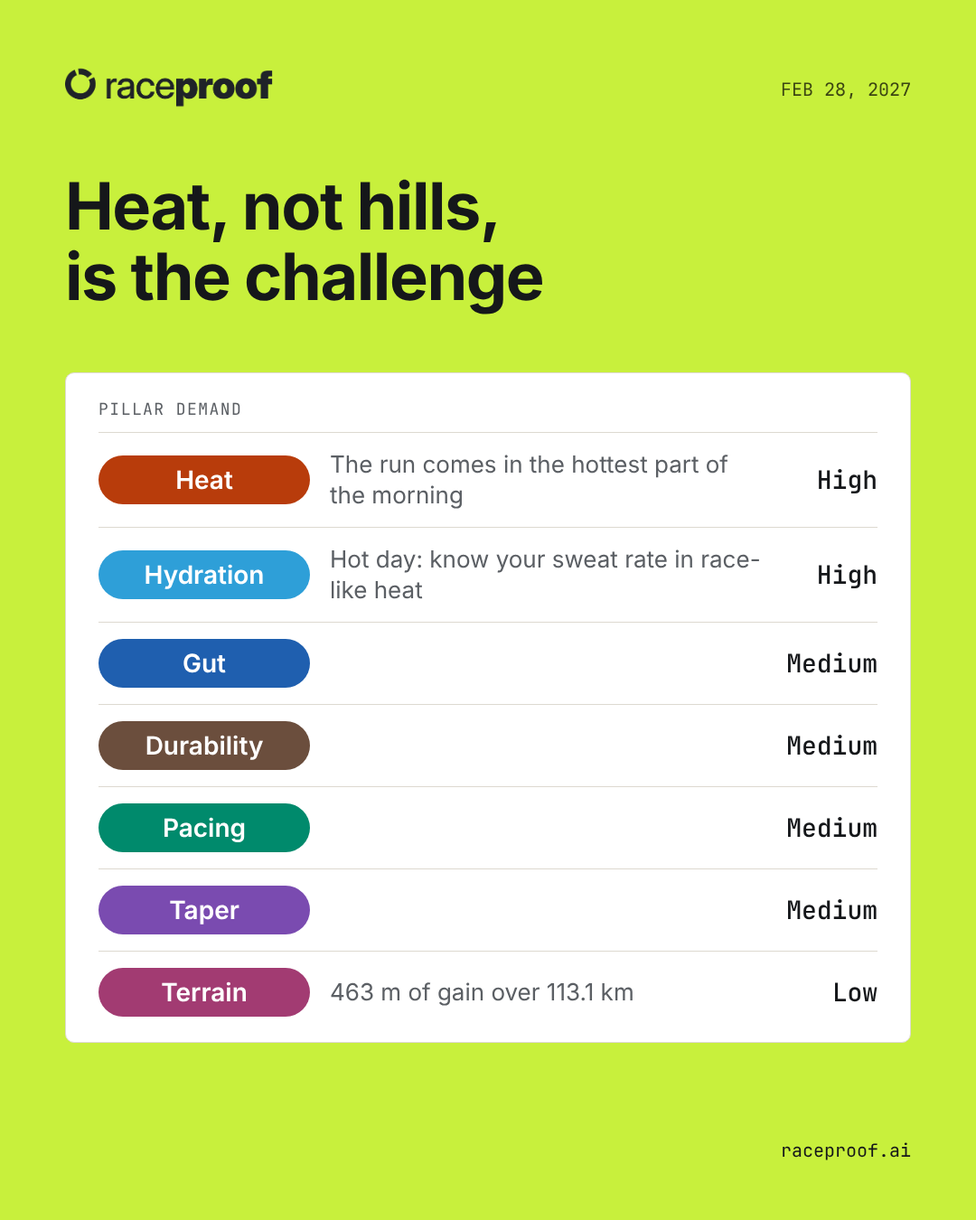
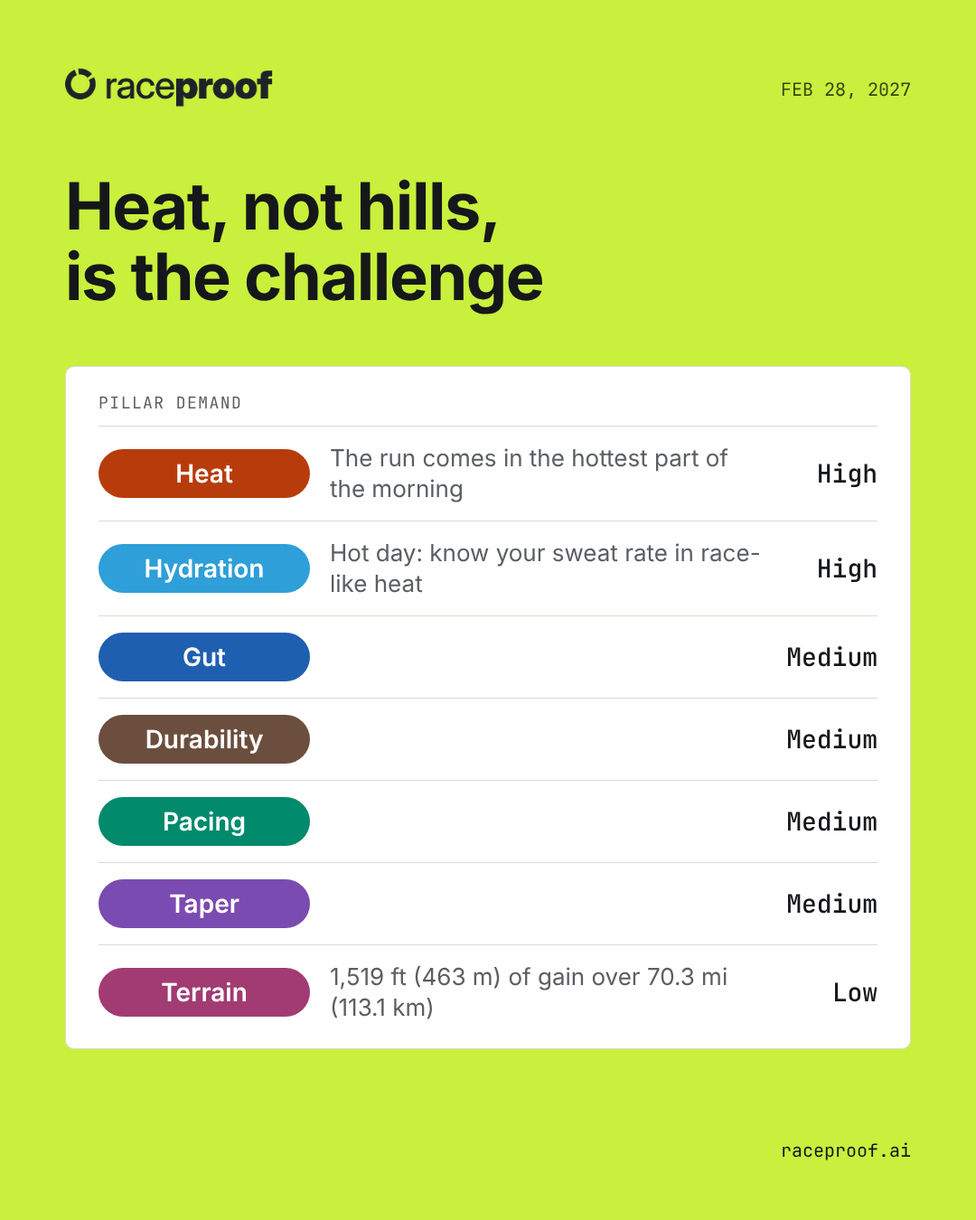
Panama carousel: imperial first with metric in parentheses, caption leads with race, date and heat, timeline as lines, no Spanish line or open-water-alone line
Claude-Session: https://claude.ai/code/session_01HnAGBKS3TMRPuz6YDVU3Ja

diff --git a/posts/2026-10-26/fri-race-ironman-70-3-panama-2.html b/posts/2026-10-26/fri-race-ironman-70-3-panama-2.html
@@ -10,14 +10,14 @@
 <div style="margin-top:64px"><h2 style="margin:0;font-size:72px;line-height:78px;font-weight:800;letter-spacing:-0.02em">The course in numbers</h2></div>
 <div style="margin-top:auto;display:flex;flex-direction:column;gap:26px">
 <div style="display:grid;grid-template-columns:1fr 1fr;column-gap:48px">
-<div style="display:flex;flex-direction:column;gap:6px;padding:20px 0;border-top:1px solid #A6C72E"><span class="mono" style="font-size:18px;letter-spacing:0.08em;color:#3B4512">DISTANCE</span><span class="mono" style="font-size:44px;line-height:50px;font-weight:600;letter-spacing:-0.02em">113.1 km</span><span style="font-size:22px;color:#3B4512">70.3 mi</span></div><div style="display:flex;flex-direction:column;gap:6px;padding:20px 0;border-top:1px solid #A6C72E"><span class="mono" style="font-size:18px;letter-spacing:0.08em;color:#3B4512">TYPICAL HIGH</span><span class="mono" style="font-size:44px;line-height:50px;font-weight:600;letter-spacing:-0.02em">32.0°C</span></div>
-<div style="display:flex;flex-direction:column;gap:6px;padding:20px 0;border-top:1px solid #A6C72E"><span class="mono" style="font-size:18px;letter-spacing:0.08em;color:#3B4512">GAIN, APPROX.</span><span class="mono" style="font-size:44px;line-height:50px;font-weight:600;letter-spacing:-0.02em">463 m</span></div><div style="display:flex;flex-direction:column;gap:6px;padding:20px 0;border-top:1px solid #A6C72E"><span class="mono" style="font-size:18px;letter-spacing:0.08em;color:#3B4512">WATER</span><span class="mono" style="font-size:44px;line-height:50px;font-weight:600;letter-spacing:-0.02em">26°C</span></div>
-<div style="display:flex;flex-direction:column;gap:6px;padding:20px 0;border-top:1px solid #A6C72E"><span class="mono" style="font-size:18px;letter-spacing:0.08em;color:#3B4512">LOSS, APPROX.</span><span class="mono" style="font-size:44px;line-height:50px;font-weight:600;letter-spacing:-0.02em">457 m</span></div><div style="border-top:1px solid #A6C72E"></div>
+<div style="display:flex;flex-direction:column;gap:6px;padding:20px 0;border-top:1px solid #A6C72E"><span class="mono" style="font-size:18px;letter-spacing:0.08em;color:#3B4512">DISTANCE</span><span class="mono" style="font-size:44px;line-height:50px;font-weight:600;letter-spacing:-0.02em">70.3 mi</span><span style="font-size:22px;color:#3B4512">113.1 km</span></div><div style="display:flex;flex-direction:column;gap:6px;padding:20px 0;border-top:1px solid #A6C72E"><span class="mono" style="font-size:18px;letter-spacing:0.08em;color:#3B4512">TYPICAL HIGH</span><span class="mono" style="font-size:44px;line-height:50px;font-weight:600;letter-spacing:-0.02em">90°F</span><span style="font-size:22px;color:#3B4512">32°C</span></div>
+<div style="display:flex;flex-direction:column;gap:6px;padding:20px 0;border-top:1px solid #A6C72E"><span class="mono" style="font-size:18px;letter-spacing:0.08em;color:#3B4512">GAIN, APPROX.</span><span class="mono" style="font-size:44px;line-height:50px;font-weight:600;letter-spacing:-0.02em">1,519 ft</span><span style="font-size:22px;color:#3B4512">463 m</span></div><div style="display:flex;flex-direction:column;gap:6px;padding:20px 0;border-top:1px solid #A6C72E"><span class="mono" style="font-size:18px;letter-spacing:0.08em;color:#3B4512">WATER</span><span class="mono" style="font-size:44px;line-height:50px;font-weight:600;letter-spacing:-0.02em">78°F</span><span style="font-size:22px;color:#3B4512">26°C</span></div>
+<div style="display:flex;flex-direction:column;gap:6px;padding:20px 0;border-top:1px solid #A6C72E"><span class="mono" style="font-size:18px;letter-spacing:0.08em;color:#3B4512">LOSS, APPROX.</span><span class="mono" style="font-size:44px;line-height:50px;font-weight:600;letter-spacing:-0.02em">1,499 ft</span><span style="font-size:22px;color:#3B4512">457 m</span></div><div style="border-top:1px solid #A6C72E"></div>
 </div>
 <div style="background:#FFFFFF;color:#15171A;border:1px solid #DDD9D0;border-radius:10px;padding:26px 32px;display:flex;flex-direction:column;gap:12px">
-<div style="display:flex;justify-content:space-between"><span class="mono" style="font-size:18px;letter-spacing:0.08em;color:#5B5F64">BIKE · 90.1 KM</span><span style="font-size:22px;color:#5B5F64">Three flat loops with short ramps</span></div>
+<div style="display:flex;justify-content:space-between"><span class="mono" style="font-size:18px;letter-spacing:0.08em;color:#5B5F64">BIKE · 56 MI (90.1 KM)</span><span style="font-size:22px;color:#5B5F64">Three flat loops with short ramps</span></div>
 <svg width="870" height="70" viewBox="0 0 870 70" style="display:block"><path d="M0.0,54.2 L1.7,52.5 L3.5,49.0 L5.2,47.2 L7.0,47.2 L8.7,47.2 L10.4,47.2 L12.2,49.0 L13.9,49.0 L15.7,49.0 L17.5,47.2 L19.2,47.2 L21.0,50.8 L22.7,52.5 L24.4,56.0 L26.2,54.2 L27.9,52.5 L29.6,47.2 L31.4,47.2 L33.1,54.2 L34.9,56.0 L36.6,54.2 L38.3,54.2 L40.1,52.5 L41.8,50.8 L43.5,49.0 L45.3,49.0 L47.1,49.0 L48.9,49.0 L50.6,49.0 L52.3,49.0 L54.1,49.0 L55.8,49.0 L57.5,49.0 L59.3,49.0 L61.0,49.0 L62.8,49.0 L64.5,50.8 L66.2,54.2 L68.0,56.0 L69.7,56.0 L71.5,56.0 L73.2,56.0 L74.9,56.0 L76.7,56.0 L78.5,56.0 L80.2,56.0 L82.0,56.0 L83.7,56.0 L85.5,54.2 L87.2,54.2 L88.9,54.2 L90.7,56.0 L92.4,56.0 L94.1,56.0 L95.9,54.2 L97.6,50.8 L99.4,43.8 L101.1,36.8 L102.8,31.5 L104.6,38.5 L106.3,45.5 L108.0,40.2 L109.9,42.0 L111.6,49.0 L113.4,61.2 L115.1,52.5 L116.8,45.5 L118.6,42.0 L120.3,36.8 L122.1,36.8 L123.8,40.2 L125.5,43.8 L127.3,45.5 L129.0,49.0 L130.7,50.8 L132.5,54.2 L134.2,54.2 L136.0,49.0 L137.7,45.5 L139.4,42.0 L141.3,43.8 L143.0,47.2 L144.7,52.5 L146.5,52.5 L148.2,50.8 L150.0,50.8 L151.7,50.8 L153.4,50.8 L155.2,52.5 L156.9,54.2 L158.6,56.0 L160.4,56.0 L162.1,54.2 L163.9,50.8 L165.6,50.8 L167.3,49.0 L169.1,49.0 L170.8,56.0 L172.6,54.2 L174.4,52.5 L176.1,50.8 L177.9,47.2 L179.6,49.0 L181.3,43.8 L183.1,43.8 L184.8,47.2 L186.6,50.8 L188.3,52.5 L190.0,50.8 L191.8,49.0 L193.5,47.2 L195.2,43.8 L197.0,40.2 L198.7,36.8 L200.5,35.0 L202.3,45.5 L204.0,50.8 L205.8,52.5 L207.5,56.0 L209.2,54.2 L211.0,43.8 L212.7,36.8 L214.5,43.8 L216.2,42.0 L217.9,33.2 L219.7,36.8 L221.4,43.8 L223.1,49.0 L224.9,50.8 L226.6,54.2 L228.4,54.2 L230.1,56.0 L231.8,56.0 L233.7,56.0 L235.4,54.2 L237.1,54.2 L238.9,54.2 L240.6,56.0 L242.4,56.0 L244.1,56.0 L245.8,56.0 L247.6,56.0 L249.3,56.0 L251.1,56.0 L252.8,54.2 L254.5,54.2 L256.3,52.5 L258.0,50.8 L259.7,49.0 L261.5,49.0 L263.2,49.0 L265.1,49.0 L266.8,49.0 L268.5,47.2 L270.3,47.2 L272.0,47.2 L273.7,47.2 L275.5,47.2 L277.2,47.2 L279.0,47.2 L280.7,47.2 L282.4,49.0 L284.2,52.5 L285.9,52.5 L287.7,54.2 L289.4,54.2 L291.1,54.2 L292.9,54.2 L294.6,54.2 L296.4,54.2 L298.2,54.2 L299.9,52.5 L301.7,49.0 L303.4,45.5 L305.1,45.5 L306.9,50.8 L308.6,54.2 L310.3,54.2 L312.1,50.8 L313.8,49.0 L315.6,49.0 L317.3,49.0 L319.0,49.0 L320.8,49.0 L322.5,49.0 L324.2,49.0 L326.0,49.0 L327.8,49.0 L329.6,49.0 L331.3,49.0 L333.0,49.0 L334.8,49.0 L336.5,49.0 L338.2,49.0 L340.0,52.5 L341.7,54.2 L343.5,56.0 L345.2,56.0 L346.9,56.0 L348.7,56.0 L350.4,56.0 L352.2,56.0 L353.9,56.0 L355.6,56.0 L357.5,56.0 L359.2,56.0 L360.9,56.0 L362.7,56.0 L364.4,56.0 L366.2,54.2 L367.9,54.2 L369.6,56.0 L371.4,56.0 L373.1,49.0 L374.8,40.2 L376.6,31.5 L378.3,40.2 L380.1,47.2 L381.8,40.2 L383.5,42.0 L385.3,49.0 L387.0,61.2 L388.8,56.0 L390.6,52.5 L392.3,47.2 L394.1,43.8 L395.8,38.5 L397.5,42.0 L399.3,45.5 L401.0,47.2 L402.7,49.0 L404.5,50.8 L406.2,52.5 L408.0,56.0 L409.7,49.0 L411.4,43.8 L413.2,42.0 L414.9,45.5 L416.7,49.0 L418.4,49.0 L420.2,50.8 L422.0,50.8 L423.7,52.5 L425.4,52.5 L427.2,52.5 L428.9,50.8 L430.7,52.5 L432.4,54.2 L434.1,56.0 L435.9,54.2 L437.6,50.8 L439.3,47.2 L441.1,50.8 L442.8,54.2 L444.6,56.0 L446.3,54.2 L448.0,52.5 L449.8,52.5 L451.6,50.8 L453.3,50.8 L455.1,49.0 L456.8,47.2 L458.6,43.8 L460.3,47.2 L462.0,50.8 L463.8,54.2 L465.5,50.8 L467.3,47.2 L469.0,43.8 L470.7,40.2 L472.5,36.8 L474.2,38.5 L475.9,43.8 L477.7,49.0 L479.4,52.5 L481.2,56.0 L483.0,56.0 L484.7,49.0 L486.5,40.2 L488.2,40.2 L489.9,42.0 L491.7,35.0 L493.4,35.0 L495.2,43.8 L496.9,50.8 L498.6,54.2 L500.4,54.2 L502.1,56.0 L503.8,56.0 L505.6,56.0 L507.3,56.0 L509.1,56.0 L510.8,56.0 L512.5,56.0 L514.4,54.2 L516.1,54.2 L517.8,54.2 L519.6,56.0 L521.3,56.0 L523.1,56.0 L524.8,56.0 L526.5,56.0 L528.3,56.0 L530.0,54.2 L531.8,54.2 L533.5,52.5 L535.2,49.0 L537.0,49.0 L538.7,47.2 L540.4,47.2 L542.2,47.2 L544.0,47.2 L545.8,47.2 L547.5,47.2 L549.2,47.2 L551.0,47.2 L552.7,47.2 L554.4,47.2 L556.2,49.0 L557.9,50.8 L559.7,54.2 L561.4,54.2 L563.1,54.2 L564.9,54.2 L566.6,54.2 L568.3,54.2 L570.1,54.2 L571.8,54.2 L573.6,54.2 L575.4,50.8 L577.1,45.5 L578.9,47.2 L580.6,50.8 L582.3,52.5 L584.1,54.2 L585.8,52.5 L587.6,50.8 L589.3,49.0 L591.0,49.0 L592.8,49.0 L594.5,49.0 L596.3,49.0 L598.0,49.0 L599.7,49.0 L601.5,49.0 L603.2,49.0 L604.9,49.0 L606.8,49.0 L608.5,49.0 L610.3,49.0 L612.0,50.8 L613.7,50.8 L615.5,52.5 L617.2,56.0 L618.9,56.0 L620.7,56.0 L622.4,56.0 L624.2,56.0 L625.9,56.0 L627.6,56.0 L629.4,56.0 L631.1,56.0 L632.9,56.0 L634.6,56.0 L636.3,54.2 L638.2,54.2 L639.9,56.0 L641.6,56.0 L643.4,54.2 L645.1,54.2 L646.9,52.5 L648.6,47.2 L650.3,40.2 L652.1,36.8 L653.8,45.5 L655.5,43.8 L657.3,42.0 L659.0,49.0 L660.8,57.8 L662.5,59.5 L664.2,56.0 L666.0,50.8 L667.7,42.0 L669.5,36.8 L671.3,38.5 L673.0,42.0 L674.8,47.2 L676.5,49.0 L678.2,52.5 L680.0,54.2 L681.7,54.2 L683.4,49.0 L685.2,45.5 L686.9,45.5 L688.7,47.2 L690.4,49.0 L692.1,50.8 L693.9,50.8 L695.6,52.5 L697.4,52.5 L699.2,50.8 L700.9,50.8 L702.7,49.0 L704.4,47.2 L706.1,49.0 L707.9,52.5 L709.6,56.0 L711.4,54.2 L713.1,52.5 L714.8,50.8 L716.6,50.8 L718.3,52.5 L720.0,52.5 L721.8,52.5 L723.5,52.5 L725.3,50.8 L727.0,49.0 L728.7,45.5 L730.6,42.0 L732.3,43.8 L734.0,47.2 L735.8,49.0 L737.5,50.8 L739.3,50.8 L741.0,47.2 L742.7,43.8 L744.5,40.2 L746.2,38.5 L747.9,35.0 L749.7,38.5 L751.4,43.8 L753.2,49.0 L754.9,54.2 L756.6,57.8 L758.4,43.8 L760.1,38.5 L762.0,40.2 L763.7,43.8 L765.4,38.5 L767.2,35.0 L768.9,38.5 L770.6,45.5 L772.4,52.5 L774.1,52.5 L775.9,54.2 L777.6,54.2 L779.3,54.2 L781.1,54.2 L782.8,54.2 L784.5,54.2 L786.3,54.2 L788.0,54.2 L789.8,56.0 L791.5,56.0 L793.3,56.0 L795.1,56.0 L796.8,56.0 L798.5,56.0 L800.3,56.0 L802.0,56.0 L803.8,54.2 L805.5,50.8 L807.2,50.8 L809.0,49.0 L810.7,49.0 L812.5,49.0 L814.2,47.2 L815.9,47.2 L817.7,47.2 L819.4,47.2 L821.1,47.2 L822.9,47.2 L824.7,47.2 L826.5,47.2 L828.2,47.2 L829.9,47.2 L831.7,49.0 L833.4,50.8 L835.1,54.2 L836.9,54.2 L838.6,54.2 L840.4,54.2 L842.1,49.0 L843.8,43.8 L845.6,42.0 L847.3,45.5 L849.0,47.2 L850.8,49.0 L852.5,47.2 L854.3,47.2 L856.1,47.2 L857.8,45.5 L859.6,45.5 L861.3,45.5 L863.0,45.5 L864.8,47.2 L866.5,49.0 L868.3,52.5 L870.0,54.2 L870,70 L0,70 Z" fill="#1F2328" opacity="0.12"/><path d="M0.0,54.2 L1.7,52.5 L3.5,49.0 L5.2,47.2 L7.0,47.2 L8.7,47.2 L10.4,47.2 L12.2,49.0 L13.9,49.0 L15.7,49.0 L17.5,47.2 L19.2,47.2 L21.0,50.8 L22.7,52.5 L24.4,56.0 L26.2,54.2 L27.9,52.5 L29.6,47.2 L31.4,47.2 L33.1,54.2 L34.9,56.0 L36.6,54.2 L38.3,54.2 L40.1,52.5 L41.8,50.8 L43.5,49.0 L45.3,49.0 L47.1,49.0 L48.9,49.0 L50.6,49.0 L52.3,49.0 L54.1,49.0 L55.8,49.0 L57.5,49.0 L59.3,49.0 L61.0,49.0 L62.8,49.0 L64.5,50.8 L66.2,54.2 L68.0,56.0 L69.7,56.0 L71.5,56.0 L73.2,56.0 L74.9,56.0 L76.7,56.0 L78.5,56.0 L80.2,56.0 L82.0,56.0 L83.7,56.0 L85.5,54.2 L87.2,54.2 L88.9,54.2 L90.7,56.0 L92.4,56.0 L94.1,56.0 L95.9,54.2 L97.6,50.8 L99.4,43.8 L101.1,36.8 L102.8,31.5 L104.6,38.5 L106.3,45.5 L108.0,40.2 L109.9,42.0 L111.6,49.0 L113.4,61.2 L115.1,52.5 L116.8,45.5 L118.6,42.0 L120.3,36.8 L122.1,36.8 L123.8,40.2 L125.5,43.8 L127.3,45.5 L129.0,49.0 L130.7,50.8 L132.5,54.2 L134.2,54.2 L136.0,49.0 L137.7,45.5 L139.4,42.0 L141.3,43.8 L143.0,47.2 L144.7,52.5 L146.5,52.5 L148.2,50.8 L150.0,50.8 L151.7,50.8 L153.4,50.8 L155.2,52.5 L156.9,54.2 L158.6,56.0 L160.4,56.0 L162.1,54.2 L163.9,50.8 L165.6,50.8 L167.3,49.0 L169.1,49.0 L170.8,56.0 L172.6,54.2 L174.4,52.5 L176.1,50.8 L177.9,47.2 L179.6,49.0 L181.3,43.8 L183.1,43.8 L184.8,47.2 L186.6,50.8 L188.3,52.5 L190.0,50.8 L191.8,49.0 L193.5,47.2 L195.2,43.8 L197.0,40.2 L198.7,36.8 L200.5,35.0 L202.3,45.5 L204.0,50.8 L205.8,52.5 L207.5,56.0 L209.2,54.2 L211.0,43.8 L212.7,36.8 L214.5,43.8 L216.2,42.0 L217.9,33.2 L219.7,36.8 L221.4,43.8 L223.1,49.0 L224.9,50.8 L226.6,54.2 L228.4,54.2 L230.1,56.0 L231.8,56.0 L233.7,56.0 L235.4,54.2 L237.1,54.2 L238.9,54.2 L240.6,56.0 L242.4,56.0 L244.1,56.0 L245.8,56.0 L247.6,56.0 L249.3,56.0 L251.1,56.0 L252.8,54.2 L254.5,54.2 L256.3,52.5 L258.0,50.8 L259.7,49.0 L261.5,49.0 L263.2,49.0 L265.1,49.0 L266.8,49.0 L268.5,47.2 L270.3,47.2 L272.0,47.2 L273.7,47.2 L275.5,47.2 L277.2,47.2 L279.0,47.2 L280.7,47.2 L282.4,49.0 L284.2,52.5 L285.9,52.5 L287.7,54.2 L289.4,54.2 L291.1,54.2 L292.9,54.2 L294.6,54.2 L296.4,54.2 L298.2,54.2 L299.9,52.5 L301.7,49.0 L303.4,45.5 L305.1,45.5 L306.9,50.8 L308.6,54.2 L310.3,54.2 L312.1,50.8 L313.8,49.0 L315.6,49.0 L317.3,49.0 L319.0,49.0 L320.8,49.0 L322.5,49.0 L324.2,49.0 L326.0,49.0 L327.8,49.0 L329.6,49.0 L331.3,49.0 L333.0,49.0 L334.8,49.0 L336.5,49.0 L338.2,49.0 L340.0,52.5 L341.7,54.2 L343.5,56.0 L345.2,56.0 L346.9,56.0 L348.7,56.0 L350.4,56.0 L352.2,56.0 L353.9,56.0 L355.6,56.0 L357.5,56.0 L359.2,56.0 L360.9,56.0 L362.7,56.0 L364.4,56.0 L366.2,54.2 L367.9,54.2 L369.6,56.0 L371.4,56.0 L373.1,49.0 L374.8,40.2 L376.6,31.5 L378.3,40.2 L380.1,47.2 L381.8,40.2 L383.5,42.0 L385.3,49.0 L387.0,61.2 L388.8,56.0 L390.6,52.5 L392.3,47.2 L394.1,43.8 L395.8,38.5 L397.5,42.0 L399.3,45.5 L401.0,47.2 L402.7,49.0 L404.5,50.8 L406.2,52.5 L408.0,56.0 L409.7,49.0 L411.4,43.8 L413.2,42.0 L414.9,45.5 L416.7,49.0 L418.4,49.0 L420.2,50.8 L422.0,50.8 L423.7,52.5 L425.4,52.5 L427.2,52.5 L428.9,50.8 L430.7,52.5 L432.4,54.2 L434.1,56.0 L435.9,54.2 L437.6,50.8 L439.3,47.2 L441.1,50.8 L442.8,54.2 L444.6,56.0 L446.3,54.2 L448.0,52.5 L449.8,52.5 L451.6,50.8 L453.3,50.8 L455.1,49.0 L456.8,47.2 L458.6,43.8 L460.3,47.2 L462.0,50.8 L463.8,54.2 L465.5,50.8 L467.3,47.2 L469.0,43.8 L470.7,40.2 L472.5,36.8 L474.2,38.5 L475.9,43.8 L477.7,49.0 L479.4,52.5 L481.2,56.0 L483.0,56.0 L484.7,49.0 L486.5,40.2 L488.2,40.2 L489.9,42.0 L491.7,35.0 L493.4,35.0 L495.2,43.8 L496.9,50.8 L498.6,54.2 L500.4,54.2 L502.1,56.0 L503.8,56.0 L505.6,56.0 L507.3,56.0 L509.1,56.0 L510.8,56.0 L512.5,56.0 L514.4,54.2 L516.1,54.2 L517.8,54.2 L519.6,56.0 L521.3,56.0 L523.1,56.0 L524.8,56.0 L526.5,56.0 L528.3,56.0 L530.0,54.2 L531.8,54.2 L533.5,52.5 L535.2,49.0 L537.0,49.0 L538.7,47.2 L540.4,47.2 L542.2,47.2 L544.0,47.2 L545.8,47.2 L547.5,47.2 L549.2,47.2 L551.0,47.2 L552.7,47.2 L554.4,47.2 L556.2,49.0 L557.9,50.8 L559.7,54.2 L561.4,54.2 L563.1,54.2 L564.9,54.2 L566.6,54.2 L568.3,54.2 L570.1,54.2 L571.8,54.2 L573.6,54.2 L575.4,50.8 L577.1,45.5 L578.9,47.2 L580.6,50.8 L582.3,52.5 L584.1,54.2 L585.8,52.5 L587.6,50.8 L589.3,49.0 L591.0,49.0 L592.8,49.0 L594.5,49.0 L596.3,49.0 L598.0,49.0 L599.7,49.0 L601.5,49.0 L603.2,49.0 L604.9,49.0 L606.8,49.0 L608.5,49.0 L610.3,49.0 L612.0,50.8 L613.7,50.8 L615.5,52.5 L617.2,56.0 L618.9,56.0 L620.7,56.0 L622.4,56.0 L624.2,56.0 L625.9,56.0 L627.6,56.0 L629.4,56.0 L631.1,56.0 L632.9,56.0 L634.6,56.0 L636.3,54.2 L638.2,54.2 L639.9,56.0 L641.6,56.0 L643.4,54.2 L645.1,54.2 L646.9,52.5 L648.6,47.2 L650.3,40.2 L652.1,36.8 L653.8,45.5 L655.5,43.8 L657.3,42.0 L659.0,49.0 L660.8,57.8 L662.5,59.5 L664.2,56.0 L666.0,50.8 L667.7,42.0 L669.5,36.8 L671.3,38.5 L673.0,42.0 L674.8,47.2 L676.5,49.0 L678.2,52.5 L680.0,54.2 L681.7,54.2 L683.4,49.0 L685.2,45.5 L686.9,45.5 L688.7,47.2 L690.4,49.0 L692.1,50.8 L693.9,50.8 L695.6,52.5 L697.4,52.5 L699.2,50.8 L700.9,50.8 L702.7,49.0 L704.4,47.2 L706.1,49.0 L707.9,52.5 L709.6,56.0 L711.4,54.2 L713.1,52.5 L714.8,50.8 L716.6,50.8 L718.3,52.5 L720.0,52.5 L721.8,52.5 L723.5,52.5 L725.3,50.8 L727.0,49.0 L728.7,45.5 L730.6,42.0 L732.3,43.8 L734.0,47.2 L735.8,49.0 L737.5,50.8 L739.3,50.8 L741.0,47.2 L742.7,43.8 L744.5,40.2 L746.2,38.5 L747.9,35.0 L749.7,38.5 L751.4,43.8 L753.2,49.0 L754.9,54.2 L756.6,57.8 L758.4,43.8 L760.1,38.5 L762.0,40.2 L763.7,43.8 L765.4,38.5 L767.2,35.0 L768.9,38.5 L770.6,45.5 L772.4,52.5 L774.1,52.5 L775.9,54.2 L777.6,54.2 L779.3,54.2 L781.1,54.2 L782.8,54.2 L784.5,54.2 L786.3,54.2 L788.0,54.2 L789.8,56.0 L791.5,56.0 L793.3,56.0 L795.1,56.0 L796.8,56.0 L798.5,56.0 L800.3,56.0 L802.0,56.0 L803.8,54.2 L805.5,50.8 L807.2,50.8 L809.0,49.0 L810.7,49.0 L812.5,49.0 L814.2,47.2 L815.9,47.2 L817.7,47.2 L819.4,47.2 L821.1,47.2 L822.9,47.2 L824.7,47.2 L826.5,47.2 L828.2,47.2 L829.9,47.2 L831.7,49.0 L833.4,50.8 L835.1,54.2 L836.9,54.2 L838.6,54.2 L840.4,54.2 L842.1,49.0 L843.8,43.8 L845.6,42.0 L847.3,45.5 L849.0,47.2 L850.8,49.0 L852.5,47.2 L854.3,47.2 L856.1,47.2 L857.8,45.5 L859.6,45.5 L861.3,45.5 L863.0,45.5 L864.8,47.2 L866.5,49.0 L868.3,52.5 L870.0,54.2" fill="none" stroke="#1F2328" stroke-width="3"/></svg>
-<div style="display:flex;justify-content:space-between;margin-top:8px"><span class="mono" style="font-size:18px;letter-spacing:0.08em;color:#5B5F64">RUN · 21.1 KM</span><span style="font-size:22px;color:#5B5F64">Three flat loops in Amador</span></div>
+<div style="display:flex;justify-content:space-between;margin-top:8px"><span class="mono" style="font-size:18px;letter-spacing:0.08em;color:#5B5F64">RUN · 13.1 MI (21.1 KM)</span><span style="font-size:22px;color:#5B5F64">Three flat loops in Amador</span></div>
 <svg width="870" height="70" viewBox="0 0 870 70" style="display:block"><path d="M0.0,56.0 L2.1,56.0 L4.5,56.0 L6.6,56.0 L8.7,56.0 L10.7,56.0 L13.2,56.0 L15.3,56.0 L17.3,57.8 L19.8,57.8 L21.9,57.8 L23.9,57.8 L26.0,57.8 L28.5,57.8 L30.5,57.8 L32.6,57.8 L35.0,57.8 L37.1,57.8 L39.2,57.8 L41.2,57.8 L43.7,57.8 L45.8,57.8 L47.8,57.8 L50.3,57.8 L52.4,57.8 L54.4,57.8 L56.5,57.8 L59.0,57.8 L61.0,57.8 L63.1,57.8 L65.6,57.8 L67.6,57.8 L69.7,57.8 L72.2,57.8 L74.2,57.8 L76.3,56.0 L78.3,56.0 L80.8,54.2 L82.9,54.2 L84.9,54.2 L87.4,54.2 L89.5,54.2 L91.5,54.2 L93.6,54.2 L96.1,54.2 L98.1,54.2 L100.2,54.2 L102.7,54.2 L104.7,54.2 L106.8,56.0 L108.9,56.0 L111.3,57.8 L113.4,57.8 L115.5,57.8 L117.9,57.8 L120.0,57.8 L122.0,57.8 L124.1,57.8 L126.6,57.8 L128.6,57.8 L130.7,57.8 L133.2,57.8 L135.2,57.8 L137.3,57.8 L139.4,57.8 L141.8,57.8 L143.9,57.8 L146.0,57.8 L148.4,57.8 L150.5,57.8 L152.6,57.8 L154.6,57.8 L157.1,57.8 L159.2,57.8 L161.2,57.8 L163.7,57.8 L165.8,57.8 L167.8,57.8 L169.9,57.8 L172.4,56.0 L174.4,56.0 L176.5,56.0 L178.9,56.0 L181.0,54.2 L183.1,54.2 L185.1,54.2 L187.6,54.2 L189.7,54.2 L191.7,52.5 L194.2,52.5 L196.3,52.5 L198.3,52.5 L200.8,50.8 L202.9,50.8 L204.9,49.0 L207.0,49.0 L209.5,47.2 L211.5,47.2 L213.6,47.2 L216.1,45.5 L218.1,45.5 L220.2,45.5 L222.2,47.2 L224.7,47.2 L226.8,47.2 L228.8,47.2 L231.3,47.2 L233.4,45.5 L235.4,45.5 L237.5,45.5 L240.0,47.2 L242.0,47.2 L244.1,47.2 L246.6,49.0 L248.6,49.0 L250.7,47.2 L252.8,47.2 L255.2,45.5 L257.3,45.5 L259.4,45.5 L261.8,45.5 L263.9,47.2 L265.9,47.2 L268.0,47.2 L270.5,47.2 L272.5,49.0 L274.6,49.0 L277.1,50.8 L279.1,50.8 L281.2,52.5 L283.3,52.5 L285.7,52.5 L287.8,54.2 L289.9,54.2 L292.3,54.2 L294.4,54.2 L296.5,54.2 L298.5,54.2 L301.0,54.2 L303.1,54.2 L305.1,56.0 L307.6,56.0 L309.7,56.0 L311.7,56.0 L314.2,56.0 L316.3,57.8 L318.3,57.8 L320.4,57.8 L322.8,57.8 L324.9,57.8 L327.0,57.8 L329.4,57.8 L331.5,57.8 L333.6,57.8 L335.6,57.8 L338.1,57.8 L340.2,57.8 L342.2,57.8 L344.7,57.8 L346.8,57.8 L348.8,57.8 L350.9,57.8 L353.4,57.8 L355.4,57.8 L357.5,57.8 L360.0,57.8 L362.0,57.8 L364.1,57.8 L366.1,57.8 L368.6,57.8 L370.7,57.8 L372.7,57.8 L375.2,56.0 L377.3,56.0 L379.3,54.2 L381.4,54.2 L383.9,54.2 L385.9,54.2 L388.0,54.2 L390.5,54.2 L392.5,54.2 L394.6,54.2 L396.7,54.2 L399.1,54.2 L401.2,54.2 L403.3,54.2 L405.7,56.0 L407.8,56.0 L409.8,57.8 L411.9,57.8 L414.4,57.8 L416.4,57.8 L418.5,57.8 L421.0,57.8 L423.0,57.8 L425.1,57.8 L427.2,57.8 L429.6,57.8 L431.7,57.8 L433.8,57.8 L436.2,57.8 L438.3,57.8 L440.4,57.8 L442.8,57.8 L444.9,57.8 L447.0,57.8 L449.0,57.8 L451.5,57.8 L453.6,57.8 L455.6,57.8 L458.1,57.8 L460.2,57.8 L462.2,57.8 L464.3,57.8 L466.7,57.8 L468.8,57.8 L470.9,56.0 L473.3,56.0 L475.4,56.0 L477.5,56.0 L479.5,54.2 L482.0,54.2 L484.1,54.2 L486.1,54.2 L488.6,54.2 L490.7,52.5 L492.7,52.5 L494.8,52.5 L497.3,50.8 L499.3,50.8 L501.4,49.0 L503.9,47.2 L505.9,47.2 L508.0,47.2 L510.0,47.2 L512.5,45.5 L514.6,45.5 L516.6,45.5 L519.1,47.2 L521.2,47.2 L523.2,49.0 L525.3,49.0 L527.8,49.0 L529.8,47.2 L531.9,47.2 L534.4,45.5 L536.4,45.5 L538.5,45.5 L540.6,47.2 L543.0,47.2 L545.1,49.0 L547.2,49.0 L549.6,47.2 L551.7,47.2 L553.7,47.2 L555.8,45.5 L558.3,45.5 L560.3,45.5 L562.4,47.2 L564.9,47.2 L566.9,47.2 L569.0,47.2 L571.5,49.0 L573.5,49.0 L575.6,50.8 L577.7,50.8 L580.1,52.5 L582.2,52.5 L584.3,52.5 L586.7,54.2 L588.8,54.2 L590.9,54.2 L592.9,54.2 L595.4,54.2 L597.5,54.2 L599.5,54.2 L602.0,54.2 L604.1,56.0 L606.1,56.0 L608.2,56.0 L610.6,56.0 L612.7,56.0 L614.8,57.8 L617.2,57.8 L619.3,57.8 L621.4,57.8 L623.4,57.8 L625.9,57.8 L628.0,57.8 L630.0,57.8 L632.5,57.8 L634.6,57.8 L636.6,57.8 L638.7,57.8 L641.2,57.8 L643.2,57.8 L645.3,57.8 L647.8,57.8 L649.8,57.8 L651.9,57.8 L653.9,57.8 L656.4,57.8 L658.5,57.8 L660.5,57.8 L663.0,57.8 L665.1,56.0 L667.1,56.0 L669.2,56.0 L671.7,56.0 L673.7,56.0 L675.8,54.2 L678.3,54.2 L680.3,54.2 L682.4,54.2 L684.9,54.2 L686.9,54.2 L689.0,54.2 L691.1,54.2 L693.5,54.2 L695.6,54.2 L697.6,54.2 L700.1,54.2 L702.2,54.2 L704.2,56.0 L706.3,56.0 L708.8,57.8 L710.8,57.8 L712.9,57.8 L715.4,57.8 L717.4,57.8 L719.5,57.8 L721.6,57.8 L724.0,57.8 L726.1,57.8 L728.2,57.8 L730.6,57.8 L732.7,57.8 L734.8,57.8 L736.8,57.8 L739.3,57.8 L741.4,57.8 L743.4,57.8 L745.9,57.8 L748.0,57.8 L750.0,57.8 L752.1,57.8 L754.5,57.8 L756.6,57.8 L758.7,56.0 L761.1,56.0 L763.2,56.0 L765.3,56.0 L767.3,56.0 L769.8,56.0 L771.9,56.0 L773.9,56.0 L776.4,56.0 L778.5,54.2 L780.5,54.2 L782.6,54.2 L785.1,54.2 L787.1,54.2 L789.2,52.5 L791.7,52.5 L793.7,52.5 L795.8,50.8 L797.8,50.8 L800.3,49.0 L802.4,47.2 L804.4,47.2 L806.9,47.2 L809.0,47.2 L811.0,45.5 L813.5,45.5 L815.6,45.5 L817.6,47.2 L819.7,47.2 L822.2,49.0 L824.2,49.0 L826.3,49.0 L828.8,47.2 L830.8,47.2 L832.9,45.5 L835.0,45.5 L837.4,45.5 L839.5,45.5 L841.5,47.2 L844.0,47.2 L846.1,47.2 L848.1,45.5 L850.2,43.8 L852.7,43.8 L854.7,43.8 L856.8,43.8 L859.3,43.8 L861.3,45.5 L863.4,45.5 L865.5,45.5 L867.9,45.5 L870.0,45.5 L870,70 L0,70 Z" fill="#1F2328" opacity="0.12"/><path d="M0.0,56.0 L2.1,56.0 L4.5,56.0 L6.6,56.0 L8.7,56.0 L10.7,56.0 L13.2,56.0 L15.3,56.0 L17.3,57.8 L19.8,57.8 L21.9,57.8 L23.9,57.8 L26.0,57.8 L28.5,57.8 L30.5,57.8 L32.6,57.8 L35.0,57.8 L37.1,57.8 L39.2,57.8 L41.2,57.8 L43.7,57.8 L45.8,57.8 L47.8,57.8 L50.3,57.8 L52.4,57.8 L54.4,57.8 L56.5,57.8 L59.0,57.8 L61.0,57.8 L63.1,57.8 L65.6,57.8 L67.6,57.8 L69.7,57.8 L72.2,57.8 L74.2,57.8 L76.3,56.0 L78.3,56.0 L80.8,54.2 L82.9,54.2 L84.9,54.2 L87.4,54.2 L89.5,54.2 L91.5,54.2 L93.6,54.2 L96.1,54.2 L98.1,54.2 L100.2,54.2 L102.7,54.2 L104.7,54.2 L106.8,56.0 L108.9,56.0 L111.3,57.8 L113.4,57.8 L115.5,57.8 L117.9,57.8 L120.0,57.8 L122.0,57.8 L124.1,57.8 L126.6,57.8 L128.6,57.8 L130.7,57.8 L133.2,57.8 L135.2,57.8 L137.3,57.8 L139.4,57.8 L141.8,57.8 L143.9,57.8 L146.0,57.8 L148.4,57.8 L150.5,57.8 L152.6,57.8 L154.6,57.8 L157.1,57.8 L159.2,57.8 L161.2,57.8 L163.7,57.8 L165.8,57.8 L167.8,57.8 L169.9,57.8 L172.4,56.0 L174.4,56.0 L176.5,56.0 L178.9,56.0 L181.0,54.2 L183.1,54.2 L185.1,54.2 L187.6,54.2 L189.7,54.2 L191.7,52.5 L194.2,52.5 L196.3,52.5 L198.3,52.5 L200.8,50.8 L202.9,50.8 L204.9,49.0 L207.0,49.0 L209.5,47.2 L211.5,47.2 L213.6,47.2 L216.1,45.5 L218.1,45.5 L220.2,45.5 L222.2,47.2 L224.7,47.2 L226.8,47.2 L228.8,47.2 L231.3,47.2 L233.4,45.5 L235.4,45.5 L237.5,45.5 L240.0,47.2 L242.0,47.2 L244.1,47.2 L246.6,49.0 L248.6,49.0 L250.7,47.2 L252.8,47.2 L255.2,45.5 L257.3,45.5 L259.4,45.5 L261.8,45.5 L263.9,47.2 L265.9,47.2 L268.0,47.2 L270.5,47.2 L272.5,49.0 L274.6,49.0 L277.1,50.8 L279.1,50.8 L281.2,52.5 L283.3,52.5 L285.7,52.5 L287.8,54.2 L289.9,54.2 L292.3,54.2 L294.4,54.2 L296.5,54.2 L298.5,54.2 L301.0,54.2 L303.1,54.2 L305.1,56.0 L307.6,56.0 L309.7,56.0 L311.7,56.0 L314.2,56.0 L316.3,57.8 L318.3,57.8 L320.4,57.8 L322.8,57.8 L324.9,57.8 L327.0,57.8 L329.4,57.8 L331.5,57.8 L333.6,57.8 L335.6,57.8 L338.1,57.8 L340.2,57.8 L342.2,57.8 L344.7,57.8 L346.8,57.8 L348.8,57.8 L350.9,57.8 L353.4,57.8 L355.4,57.8 L357.5,57.8 L360.0,57.8 L362.0,57.8 L364.1,57.8 L366.1,57.8 L368.6,57.8 L370.7,57.8 L372.7,57.8 L375.2,56.0 L377.3,56.0 L379.3,54.2 L381.4,54.2 L383.9,54.2 L385.9,54.2 L388.0,54.2 L390.5,54.2 L392.5,54.2 L394.6,54.2 L396.7,54.2 L399.1,54.2 L401.2,54.2 L403.3,54.2 L405.7,56.0 L407.8,56.0 L409.8,57.8 L411.9,57.8 L414.4,57.8 L416.4,57.8 L418.5,57.8 L421.0,57.8 L423.0,57.8 L425.1,57.8 L427.2,57.8 L429.6,57.8 L431.7,57.8 L433.8,57.8 L436.2,57.8 L438.3,57.8 L440.4,57.8 L442.8,57.8 L444.9,57.8 L447.0,57.8 L449.0,57.8 L451.5,57.8 L453.6,57.8 L455.6,57.8 L458.1,57.8 L460.2,57.8 L462.2,57.8 L464.3,57.8 L466.7,57.8 L468.8,57.8 L470.9,56.0 L473.3,56.0 L475.4,56.0 L477.5,56.0 L479.5,54.2 L482.0,54.2 L484.1,54.2 L486.1,54.2 L488.6,54.2 L490.7,52.5 L492.7,52.5 L494.8,52.5 L497.3,50.8 L499.3,50.8 L501.4,49.0 L503.9,47.2 L505.9,47.2 L508.0,47.2 L510.0,47.2 L512.5,45.5 L514.6,45.5 L516.6,45.5 L519.1,47.2 L521.2,47.2 L523.2,49.0 L525.3,49.0 L527.8,49.0 L529.8,47.2 L531.9,47.2 L534.4,45.5 L536.4,45.5 L538.5,45.5 L540.6,47.2 L543.0,47.2 L545.1,49.0 L547.2,49.0 L549.6,47.2 L551.7,47.2 L553.7,47.2 L555.8,45.5 L558.3,45.5 L560.3,45.5 L562.4,47.2 L564.9,47.2 L566.9,47.2 L569.0,47.2 L571.5,49.0 L573.5,49.0 L575.6,50.8 L577.7,50.8 L580.1,52.5 L582.2,52.5 L584.3,52.5 L586.7,54.2 L588.8,54.2 L590.9,54.2 L592.9,54.2 L595.4,54.2 L597.5,54.2 L599.5,54.2 L602.0,54.2 L604.1,56.0 L606.1,56.0 L608.2,56.0 L610.6,56.0 L612.7,56.0 L614.8,57.8 L617.2,57.8 L619.3,57.8 L621.4,57.8 L623.4,57.8 L625.9,57.8 L628.0,57.8 L630.0,57.8 L632.5,57.8 L634.6,57.8 L636.6,57.8 L638.7,57.8 L641.2,57.8 L643.2,57.8 L645.3,57.8 L647.8,57.8 L649.8,57.8 L651.9,57.8 L653.9,57.8 L656.4,57.8 L658.5,57.8 L660.5,57.8 L663.0,57.8 L665.1,56.0 L667.1,56.0 L669.2,56.0 L671.7,56.0 L673.7,56.0 L675.8,54.2 L678.3,54.2 L680.3,54.2 L682.4,54.2 L684.9,54.2 L686.9,54.2 L689.0,54.2 L691.1,54.2 L693.5,54.2 L695.6,54.2 L697.6,54.2 L700.1,54.2 L702.2,54.2 L704.2,56.0 L706.3,56.0 L708.8,57.8 L710.8,57.8 L712.9,57.8 L715.4,57.8 L717.4,57.8 L719.5,57.8 L721.6,57.8 L724.0,57.8 L726.1,57.8 L728.2,57.8 L730.6,57.8 L732.7,57.8 L734.8,57.8 L736.8,57.8 L739.3,57.8 L741.4,57.8 L743.4,57.8 L745.9,57.8 L748.0,57.8 L750.0,57.8 L752.1,57.8 L754.5,57.8 L756.6,57.8 L758.7,56.0 L761.1,56.0 L763.2,56.0 L765.3,56.0 L767.3,56.0 L769.8,56.0 L771.9,56.0 L773.9,56.0 L776.4,56.0 L778.5,54.2 L780.5,54.2 L782.6,54.2 L785.1,54.2 L787.1,54.2 L789.2,52.5 L791.7,52.5 L793.7,52.5 L795.8,50.8 L797.8,50.8 L800.3,49.0 L802.4,47.2 L804.4,47.2 L806.9,47.2 L809.0,47.2 L811.0,45.5 L813.5,45.5 L815.6,45.5 L817.6,47.2 L819.7,47.2 L822.2,49.0 L824.2,49.0 L826.3,49.0 L828.8,47.2 L830.8,47.2 L832.9,45.5 L835.0,45.5 L837.4,45.5 L839.5,45.5 L841.5,47.2 L844.0,47.2 L846.1,47.2 L848.1,45.5 L850.2,43.8 L852.7,43.8 L854.7,43.8 L856.8,43.8 L859.3,43.8 L861.3,45.5 L863.4,45.5 L865.5,45.5 L867.9,45.5 L870.0,45.5" fill="none" stroke="#1F2328" stroke-width="3"/></svg>
 </div></div>
 <div style="margin-top:auto;padding-top:40px;display:flex;justify-content:space-between;align-items:center;font-family:'JetBrains Mono', ui-monospace, monospace;font-size:20px;color:#3B4512">

diff --git a/posts/2026-10-26/fri-race-ironman-70-3-panama-1.html b/posts/2026-10-26/fri-race-ironman-70-3-panama-1.html
@@ -9,15 +9,15 @@
 
 <div style="margin-top:auto;display:flex;flex-direction:column;gap:30px">
 <div class="mono" style="font-size:22px;font-weight:500;letter-spacing:0.08em;color:#1F2328">RACE BREAKDOWN · IRONMAN 70.3 PANAMA</div>
-<h1 style="margin:0;font-size:78px;line-height:84px;font-weight:800;letter-spacing:-0.03em">Panama’s water was 78°F in 2026, above the <span style="text-decoration:underline;text-decoration-thickness:6px;text-underline-offset:10px">76.1°F</span> wetsuit cutoff.</h1>
+<h1 style="margin:0;font-size:78px;line-height:84px;font-weight:800;letter-spacing:-0.03em">Panama’s water was 78°F (26°C) in 2026, above the <span style="text-decoration:underline;text-decoration-thickness:6px;text-underline-offset:10px">76.1°F (24.5°C)</span> wetsuit cutoff.</h1>
 <p style="margin:0;font-size:36px;line-height:46px;font-weight:600">Plan for a swim without a wetsuit.</p>
 <div style="background:#FFFFFF;color:#15171A;border:1px solid #DDD9D0;border-radius:10px;padding:34px 40px 30px">
 <div style="position:relative;height:150px">
 <div style="position:absolute;left:0;right:0;top:70px;height:14px;border-radius:7px;background:#ECE9E2"></div>
 <div style="position:absolute;left:50.833333333333286%;top:48px;height:58px;border-left:3px dashed #5B5F64"></div>
-<div class="mono" style="position:absolute;left:50.833333333333286%;top:116px;transform:translateX(-50%);font-size:22px;color:#5B5F64;white-space:nowrap">Age-group wetsuit cutoff 76.1°F</div>
+<div class="mono" style="position:absolute;left:50.833333333333286%;top:116px;transform:translateX(-50%);font-size:22px;color:#5B5F64;white-space:nowrap">Age-group wetsuit cutoff 76.1°F (24.5°C)</div>
 <div style="position:absolute;left:66.66666666666666%;top:56px;width:42px;height:42px;margin-left:-21px;border-radius:50%;background:#B83C0B"></div>
-<div class="mono" style="position:absolute;left:66.66666666666666%;top:0;transform:translateX(-60%);font-size:24px;font-weight:600;color:#B83C0B;white-space:nowrap">78°F <span style="color:#5B5F64;font-weight:400">Race day 2026</span></div>
+<div class="mono" style="position:absolute;left:66.66666666666666%;top:0;transform:translateX(-60%);font-size:24px;font-weight:600;color:#B83C0B;white-space:nowrap">78°F (26°C) <span style="color:#5B5F64;font-weight:400">Race day 2026</span></div>
 </div></div></div>
 <div style="margin-top:auto;padding-top:40px;display:flex;justify-content:space-between;align-items:center;font-family:'JetBrains Mono', ui-monospace, monospace;font-size:20px;color:#3B4512">
 <span>Swipe →</span><span style="color:#15171A">raceproof.ai</span></div>

diff --git a/posts/2026-10-26/fri-race-ironman-70-3-panama-3.html b/posts/2026-10-26/fri-race-ironman-70-3-panama-3.html
@@ -17,7 +17,7 @@
 <div style="display:flex;align-items:center;gap:22px;padding:18px 0;border-top:1px solid #DDD9D0"><div style="padding:10px 22px;border-radius:999px;background:#6B4E3D;color:#FFFFFF;font-size:28px;font-weight:600;flex-shrink:0;min-width:190px;text-align:center">Durability</div><div style="flex-grow:1;font-size:26px;line-height:34px;color:#5B5F64"></div><div class="mono" style="font-size:28px;font-weight:600;flex-shrink:0">Medium</div></div>
 <div style="display:flex;align-items:center;gap:22px;padding:18px 0;border-top:1px solid #DDD9D0"><div style="padding:10px 22px;border-radius:999px;background:#008A6C;color:#FFFFFF;font-size:28px;font-weight:600;flex-shrink:0;min-width:190px;text-align:center">Pacing</div><div style="flex-grow:1;font-size:26px;line-height:34px;color:#5B5F64"></div><div class="mono" style="font-size:28px;font-weight:600;flex-shrink:0">Medium</div></div>
 <div style="display:flex;align-items:center;gap:22px;padding:18px 0;border-top:1px solid #DDD9D0"><div style="padding:10px 22px;border-radius:999px;background:#7A4BB0;color:#FFFFFF;font-size:28px;font-weight:600;flex-shrink:0;min-width:190px;text-align:center">Taper</div><div style="flex-grow:1;font-size:26px;line-height:34px;color:#5B5F64"></div><div class="mono" style="font-size:28px;font-weight:600;flex-shrink:0">Medium</div></div>
-<div style="display:flex;align-items:center;gap:22px;padding:18px 0;border-top:1px solid #DDD9D0"><div style="padding:10px 22px;border-radius:999px;background:#A23B72;color:#FFFFFF;font-size:28px;font-weight:600;flex-shrink:0;min-width:190px;text-align:center">Terrain</div><div style="flex-grow:1;font-size:26px;line-height:34px;color:#5B5F64">463 m of gain over 113.1 km</div><div class="mono" style="font-size:28px;font-weight:600;flex-shrink:0">Low</div></div>
+<div style="display:flex;align-items:center;gap:22px;padding:18px 0;border-top:1px solid #DDD9D0"><div style="padding:10px 22px;border-radius:999px;background:#A23B72;color:#FFFFFF;font-size:28px;font-weight:600;flex-shrink:0;min-width:190px;text-align:center">Terrain</div><div style="flex-grow:1;font-size:26px;line-height:34px;color:#5B5F64">1,519 ft (463 m) of gain over 70.3 mi (113.1 km)</div><div class="mono" style="font-size:28px;font-weight:600;flex-shrink:0">Low</div></div>
 </div></div>
 <div style="margin-top:auto;padding-top:40px;display:flex;justify-content:space-between;align-items:center;font-family:'JetBrains Mono', ui-monospace, monospace;font-size:20px;color:#3B4512">
 <span></span><span style="color:#15171A">raceproof.ai</span></div>

diff --git a/posts/2026-10-26/fri-race-ironman-70-3-panama-4.html b/posts/2026-10-26/fri-race-ironman-70-3-panama-4.html
@@ -15,7 +15,7 @@
 </div>
 <div style="background:#FFFFFF;color:#15171A;border:1px solid #DDD9D0;border-radius:10px;padding:30px 36px;display:flex;flex-direction:column;gap:14px">
 <div style="font-size:32px;line-height:42px;font-weight:600">Swim open water often, not just the pool. In the final 8 weeks, 2 to 4 swims a week, mixing both.</div>
-<div style="font-size:26px;line-height:34px;color:#5B5F64">Never swim open water alone.</div></div>
+</div>
 <div class="mono" style="font-size:20px;line-height:30px;color:#3B4512">Quagliarotti 2021 · Hayes (RG Active), 220 Triathlon 2026</div></div>
 <div style="margin-top:auto;padding-top:40px;display:flex;justify-content:space-between;align-items:center;font-family:'JetBrains Mono', ui-monospace, monospace;font-size:20px;color:#3B4512">
 <span></span><span style="color:#15171A">raceproof.ai</span></div>
